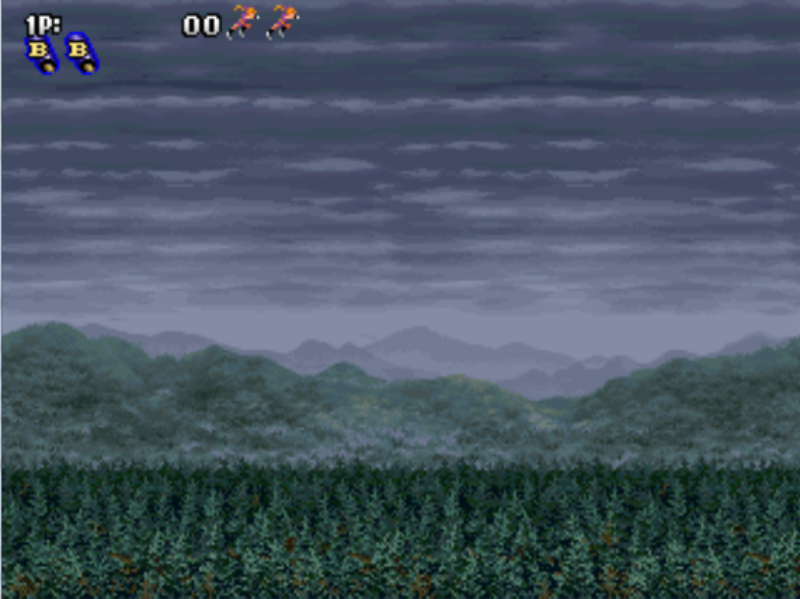
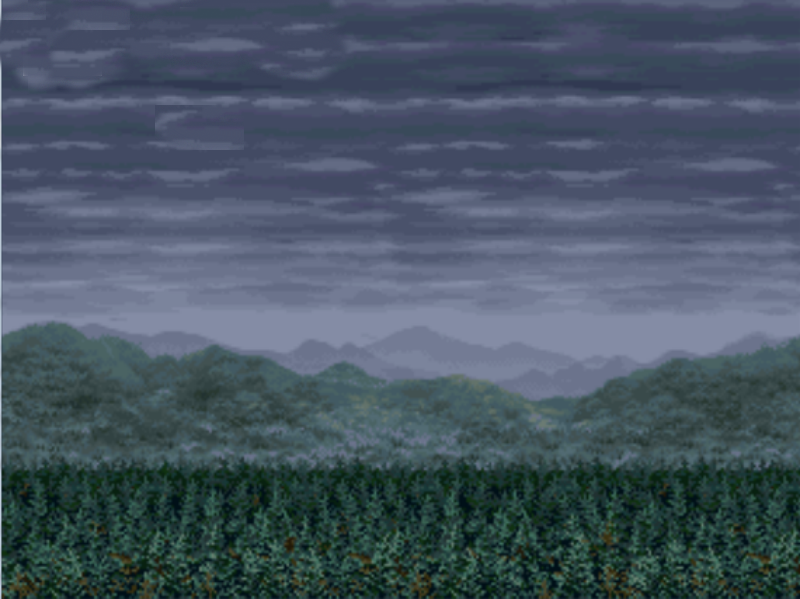
배경스크롤링, 미사일 구현

diff --git a/Game_Pro/bullet.py b/Game_Pro/bullet.py
@@ -1,0 +1,53 @@
+from pico2d import*
+import random
+
+class Player_Bullet:
+    image = None
+    shooting_sound = None
+
+    PIXEL_PER_KMETER = (10.0 / 0.5)
+    RUN_SPEED_KMPH = 180000.0
+    RUN_SPEED_KMPM = RUN_SPEED_KMPH / 60
+    RUN_SPEED_KMPS = RUN_SPEED_KMPM / 60
+    RUN_SPEED_PPS = RUN_SPEED_KMPS * PIXEL_PER_KMETER
+    TIME_PER_ACTION = 0.5
+    ACTION_PER_TIME = 1.0 / TIME_PER_ACTION
+    FRAMES_PER_ACTION = 9
+
+    def __init__(self):
+        self.x, self.y = -100, -50 # 화면밖에서 일단 객체 생성
+        self.shooting = False
+        self.shoot_start = False
+        self.shoot_dir = -1
+        self.frame = 0
+
+        if Player_Bullet.image == None:
+            Player_Bullet.image = load_image('character_bullet.png')
+
+    def update(self, frame_time, player_x, player_y):
+        if self.shooting is True:
+            if self.shoot_start is True:
+                self.x = player_x + 10
+                self.y = player_y
+                self.shoot_start = False
+            if self.x > 800:
+                self.x = self.shoot_dir * 30
+                self.shooting = False
+
+        distance = self.RUN_SPEED_PPS * frame_time
+        self.x += distance
+
+    def draw(self):
+        if self.shooting == True:
+            self.image.clip_draw((self.frame%9) * 24, 0, 24, 18, self.x, self.y)
+        #self.character_image.clip_draw((self.frame%11) * 40, 0, 40, 40, self.x, self.y)
+
+    def handle_event(self, event):
+        if(event.type, event.key) == (SDL_KEYDOWN, SDLK_a):
+            if self.shooting is False:
+                self.x = -30
+                self.shooting = True
+                self.shoot_start = True
+
+
+

diff --git a/Game_Pro/Player.py b/Game_Pro/Player.py
@@ -1,8 +1,13 @@
 from pico2d import*
 import random
+import os
+from bullet import Player_Bullet
+
+os.chdir('C:\\Temp\\lab01')
 
 class Player:
-    image = None
+    character_image = None
+    shoot_image = None
     shooting_sound = None
 
     PIXEL_PER_KMETER = (10.0/0.5)
@@ -10,6 +15,9 @@ class Player:
     RUN_SPEED_KMPM = RUN_SPEED_KMPH / 60
     RUN_SPEED_KMPS = RUN_SPEED_KMPM / 60
     RUN_SPEED_PPS = RUN_SPEED_KMPS * PIXEL_PER_KMETER
+    TIME_PER_ACTION = 0.5
+    ACTION_PER_TIME = 1.0 / TIME_PER_ACTION
+    FRAMES_PER_ACTION = 11
 
     STAND, MOVE_RIGHT, MOVE_LEFT, MOVE_UP, MOVE_DOWN = 0, 1, 2, 3, 4
 
@@ -18,8 +26,12 @@ class Player:
         self.dir = 0  # 0 : stand, 1 : right, 2 : left, 3 : up, 4 : down
         self.state = self.STAND
         self.live = True
+        self.frame = 0
+        self.total_frame = 0.0
         self.shooting = False
-        self.image = load_image('character_right.png')
+        self.character_image = load_image('character_right.png')
+
+
 
 
     def you_dead(self):
@@ -33,11 +45,12 @@ class Player:
         elif self.state in(self.MOVE_UP, self.MOVE_DOWN):
             self.y += (self.dir * distance)
 
+        self.frame += int(self.total_frame) % 8
+        self.total_frame += Player.FRAMES_PER_ACTION * Player.ACTION_PER_TIME * frame_time
+
+
     def draw(self):
-        frame = 0
-        self.image.clip_draw(frame * 40, 0, 40, 40, self.x, self.y)
-        self.frame = (frame + 1) % 11
-        delay(0.05)
+        self.character_image.clip_draw((self.frame%11) * 40, 0, 40, 40, self.x, self.y)
         # clip_draw_to_origin(self, left, botton, width, height, x, y, w, h)
 
     def handle_event(self, event):

diff --git a/Game_Pro/main_state.py b/Game_Pro/main_state.py
@@ -2,9 +2,10 @@ import os
 import random
 import game_framework
 import title_state
-from Player import Player
+from Player import*
 import enemy
 from background import Background
+from bullet import Player_Bullet
 
 from pico2d import*
 
@@ -15,21 +16,25 @@ name = "MainState"
 
 player = None
 enemy = None
-scrolling_background = None
 background = None
+player_bullet = None
 
 def create_world():
     global player
-    global scrolling_background
+    global background
+    global player_bullet
 
-    scrolling_background = Background(800, 600)
+    background = Background(800, 600)
     player = Player()
+    player_bullet = Player_Bullet()
 
 def destroy_world():
-    global player, enemy
+    global player, enemy, background, player_bullet
 
     del(player)
     del(enemy)
+    del(background)
+    del(player_bullet)
 
 
 def enter():
@@ -47,6 +52,7 @@ def resume():
     pass
 
 def handle_events(frame_time):
+    global player_bullet
 
     events = get_events()
 
@@ -55,17 +61,22 @@ def handle_events(frame_time):
             game_framework.quit()
         else:
             player.handle_event(event)
+            player_bullet.handle_event(event)
 
 def update(frame_time):
     global player
+    global player_bullet
 
-    scrolling_background.update(frame_time)
+    background.update(frame_time)
     player.update(frame_time)
+    player_bullet.update(frame_time, player.x, player.y)
 
 def draw(frame_time):
+
     clear_canvas()
-    scrolling_background.draw()
+    background.draw()
     Player.draw(player)
+    player_bullet.draw()
     update_canvas()
 
 

diff --git a/Game_Pro/background.py b/Game_Pro/background.py
@@ -24,7 +24,7 @@ class Background:
 
     def update(self, frame_time):
         self.speed = Background.RUN_SPEED_PPS
-        self.bottom = (self.width + frame_time * self.speed) % self.image.w
+        self.width = (self.width + frame_time * self.speed) % self.image.w
 
     def handle_event(self, event):
         if event.type == SDL_KEYDOWN:
